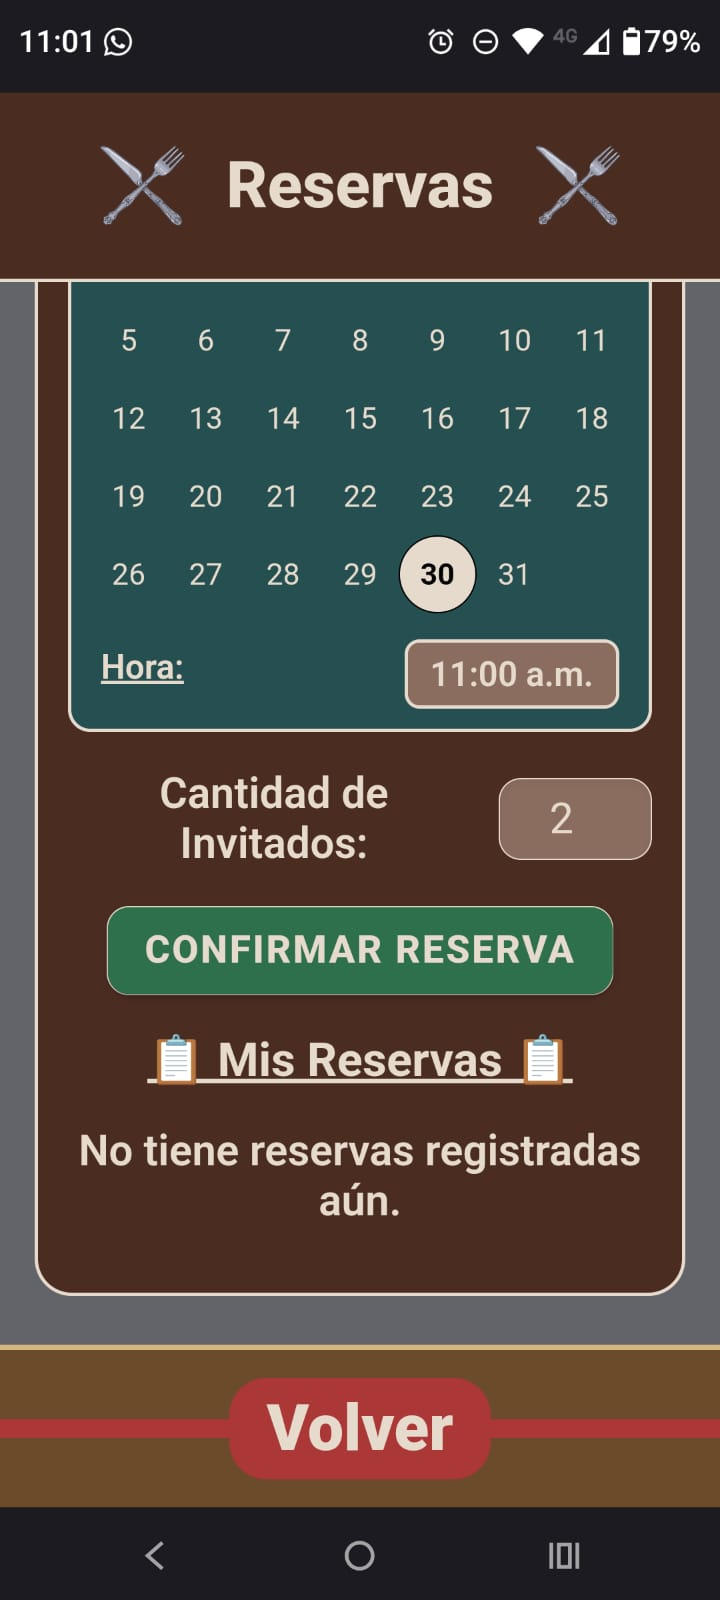
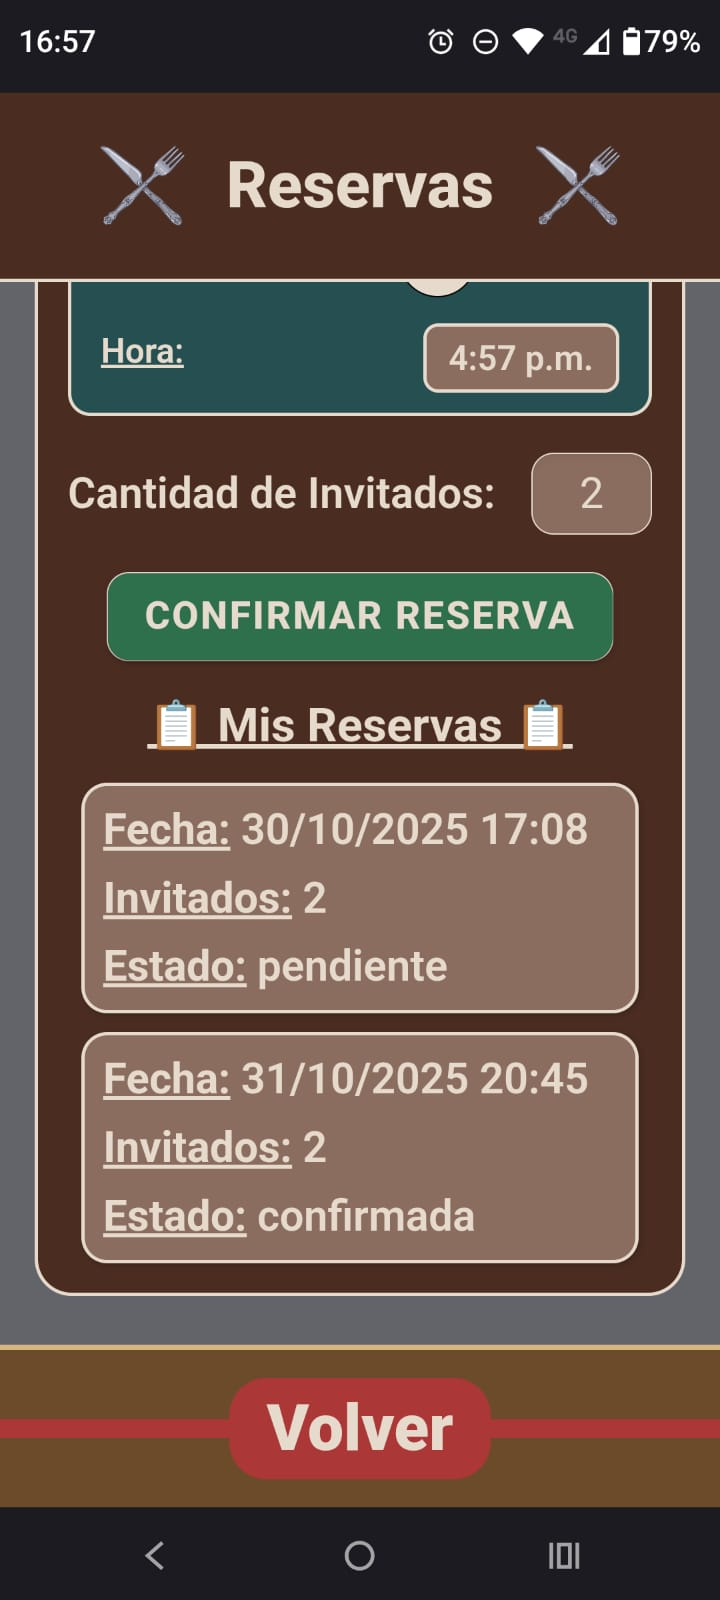
Images

diff --git a/src/global.scss b/src/global.scss
@@ -299,7 +299,8 @@ ion-toast.toast2::part(header) {
 
 
 ion-alert.alert-foto,
-ion-alert.alert-cocina {
+ion-alert.alert-cocina,
+ion-alert.alert-reservas {
   --background: var(--color-btn-secondary);
   --backdrop-opacity: .35;
   --box-shadow: 0 10px 30px rgba(0, 0, 0, .4);
@@ -328,7 +329,8 @@ ion-alert.alert-cocina {
 }
 
 .alert-foto .alert-message,
-.alert-cocina .alert-message {
+.alert-cocina .alert-message,
+.alert-reservas .alert-message {
   font-weight: 600;
   padding: 0 16px 8px;
   font-size: 18px;
@@ -338,7 +340,8 @@ ion-alert.alert-cocina {
 }
 
 .alert-foto .alert-button-group,
-.alert-cocina .alert-button-group {
+.alert-cocina .alert-button-group,
+.alert-reservas .alert-button-group {
   display: flex;
   justify-content: end;
   align-items: center;
@@ -351,7 +354,8 @@ ion-alert.alert-cocina {
 }
 
 .alert-foto .alert-button,
-.alert-cocina .alert-button {
+.alert-cocina .alert-button,
+.alert-reservas .alert-button {
   text-align: center;
   font-weight: 800;
   font-size: 16px;
@@ -362,7 +366,8 @@ ion-alert.alert-cocina {
 }
 
 .alert-foto .alert-button-inner,
-.alert-cocina .alert-button-inner {
+.alert-cocina .alert-button-inner,
+.alert-reservas .alert-button-inner {
   display: flex;
   align-items: center;
   justify-content: center;
@@ -370,10 +375,38 @@ ion-alert.alert-cocina {
   line-height: 1;
 }
 
-.alert-cocina .alert-button {
+.alert-cocina .alert-button,
+.alert-reservas .alert-button {
   width: 120px;
 }
 
-.alert-reservas {
-  
+.alert-reservas .alert-title {
+  color: var(--color-text);
+  font-size: 25px;
+  text-align: center;
+}
+
+.alert-reservas .alert-input-group {
+  padding-top: 0;
+}
+
+.alert-reservas .alert-head {
+  padding-bottom: 0;
+}
+
+.alert-reservas .alert-input-wrapper {
+  font-size: 18px;
+}
+
+.alert-reservas .alert-input-wrapper textarea {
+  color: var(--color-text);
+  border: 2px solid var(--color-black) !important;
+  border-radius: 20px;
+  padding: 10px;
+  height: 100px;
+}
+
+.alert-reservas .alert-wrapper {
+  border-radius: 16px;
+  border: 2px solid var(--color-text);
 }

diff --git a/src/app/pages/reservas-admin/reservas-admin.page.ts b/src/app/pages/reservas-admin/reservas-admin.page.ts
@@ -220,7 +220,7 @@ export class ReservasAdminPage implements OnInit {
   async rechazar(r: any) {
     const prompt = await this.alert.create({
       cssClass: "alert-reservas",
-      header: 'Motivo del rechazo',
+      header: 'Motivo del Rechazo',
       inputs: [
         {
           type: 'textarea',

diff --git a/README.md b/README.md
@@ -295,6 +295,7 @@ Dejar las imágenes en una carpeta compartida, así se pueden ver todas
   <img src="src/assets/imagesGithub/reservas-4.jpeg" alt="Reservas 4" width="400" height="800">
   <img src="src/assets/imagesGithub/reservas-5.jpeg" alt="Reservas 5" width="400" height="800">
   <img src="src/assets/imagesGithub/reservas-6.jpeg" alt="Reservas 6" width="400" height="800">
+  <img src="src/assets/imagesGithub/rechazar-reserva.jpeg" alt="Rechazar Reserva" width="400" height="800">
   <img src="src/assets/imagesGithub/eleccion-fecha.jpeg" alt="Elección Fecha" width="400" height="800">
   <img src="src/assets/imagesGithub/eleccion-hora.jpeg" alt="Elección Hora" width="400" height="800">
 </p>
